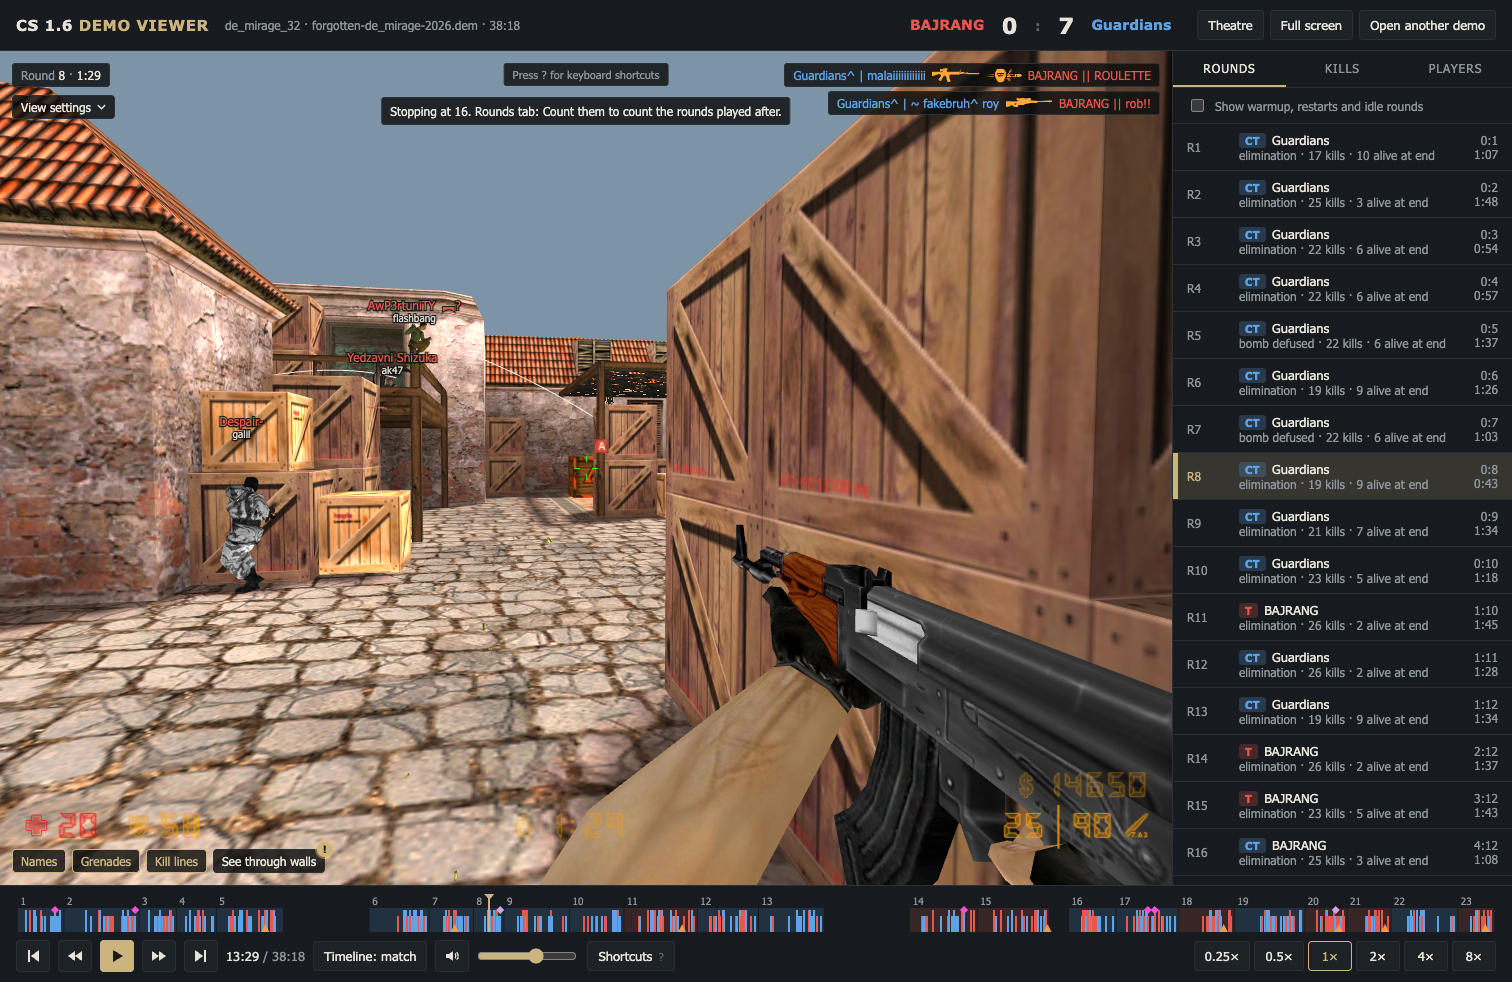
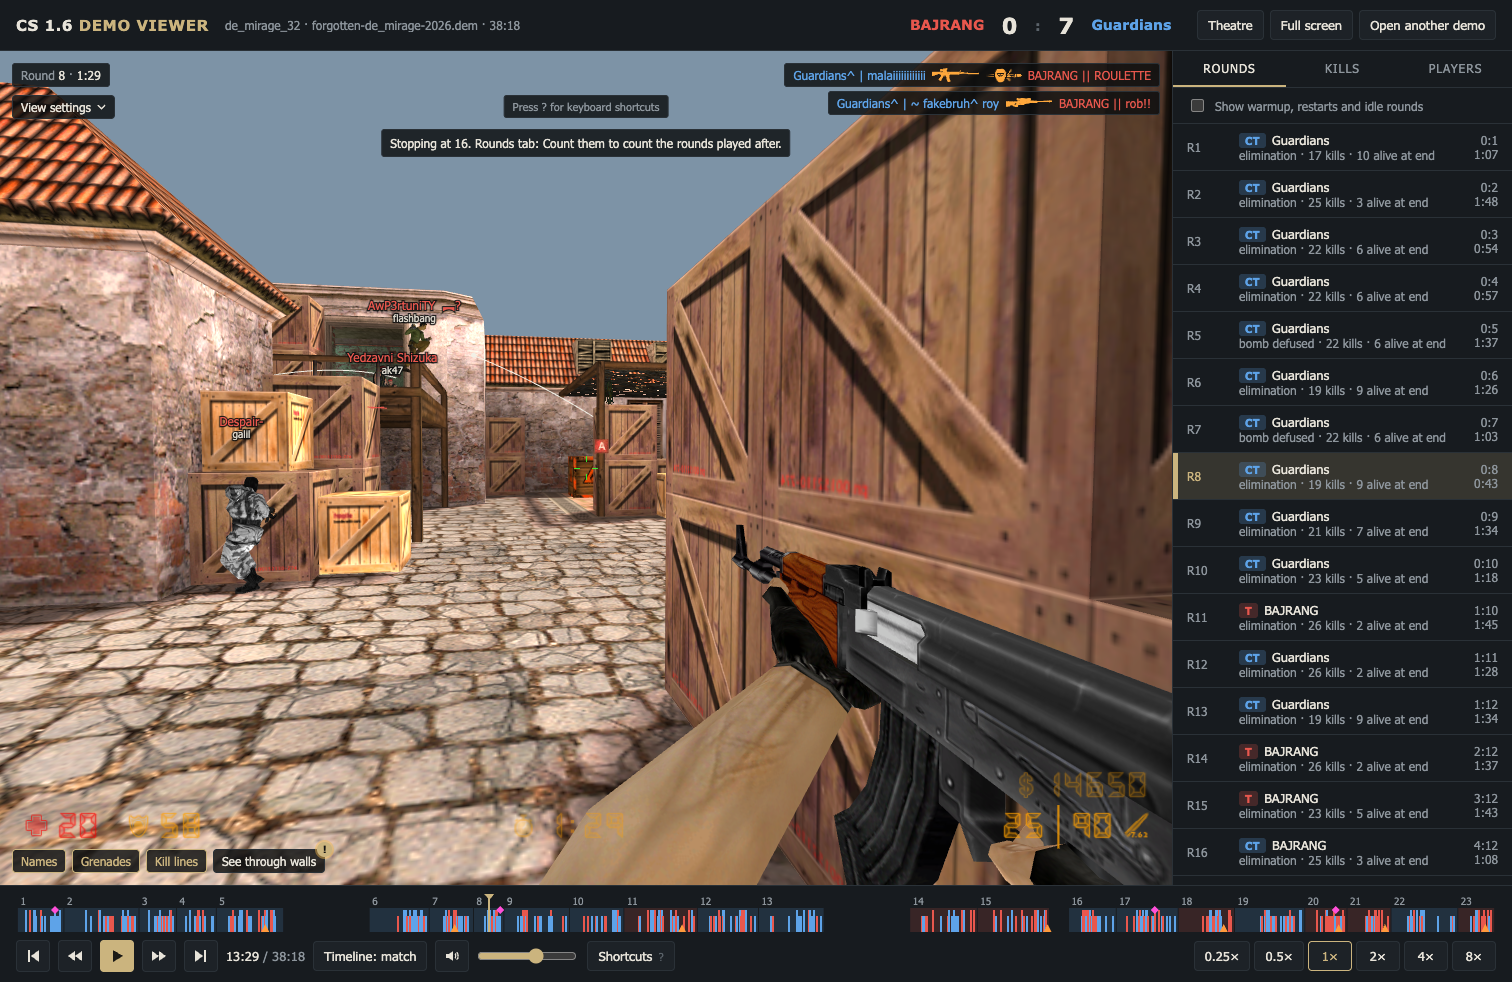
screenshots: retake 10 and 11, add 13, the notices past the kill feed

Changed region(s): [[0.2487, 0.0611, 0.5284, 0.1833]]

diff --git a/README.md b/README.md
@@ -13,6 +13,7 @@ From the pull request's build, headless Chromium with SwiftShader, a 1512x982 wi
 - `07-plant-bar-spectating-*`: R11 0:28, dead, watching ~br0nzE^ plant in first person: the bar at 73%, picked up at 59% from BarTime2 at 0:29.
 - `08-tab-held-*`: R3 1:10: his Tab scoreboard, open by itself while he held Tab, with "He held Tab here".
 - `09-kills-tab-*`: R7 1:31, the Kills tab: his kills and deaths for the whole match by round (18 kills, 23 deaths), R7 highlighted.
-- `10-notices-top-*`: R8 1:29: "Press ? for keyboard shortcuts" and the "Stopping at 16" notice at the top middle, the HUD's corners clear.
-- `11-note-from-mark-*`: the same moment after a click on the !: the anti-wallhack note at the top middle under the notices, with its ×; his health and armour stay in view.
+- `10-notices-top-*`: R8 1:29: "Press ? for keyboard shortcuts" and the "Stopping at 16" notice at the top middle, the HUD's corners clear. Retaken after the notices were made to step down past the kill feed.
+- `11-note-from-mark-*`: the same moment after a click on the !: the anti-wallhack note at the top middle under the notices, with its ×; his health and armour stay in view. Retaken: with the note open the column reached within 8 px of the feed's rows, so it steps down below them.
 - `12-hltv-view-settings-*`: Na`Vi vs FX, Dust2, SEC 2011 final: **View settings** with no **POV mode** row or heading, and the 2D, 3D and 3D + radar switch and **Reset view** as before.
+- `13-notices-past-the-feed-1280x720-*`: the worst case of the notices against the kill feed (Sujan, 11 Nov 2026): R17 1:13, the feed's 5 rows at their widest, a 1280x720 window, "Stopping at 16" and the note open: the column steps down below the feed; with the note open it reaches the middle of the view.
